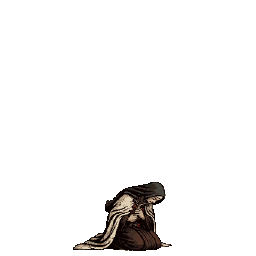
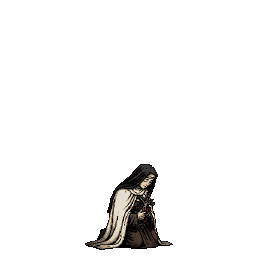
Arte T65: Bento com o corvo no ombro e Teresinha no estilo novo, com animações; Deslocar cinza (D-387)
Claude-Session: https://claude.ai/code/session_01DUWuezvzjAUhnjSiedgYuQ

Changed region(s): [[0.2812, 0.625, 0.6875, 1.0]]

diff --git a/docs/memory/progress.md b/docs/memory/progress.md
@@ -4,7 +4,7 @@ Onde estamos agora. Parte da memória do projeto (`docs/memory/README.md`). Atua
 
 ## Onde estamos
 
-- **Arte em pixel (14/11/2026, D-367 a D-370):** toda a arte passa a ser pixel art gerada no PixelLab, numa tela interna de 960 × 540. Piloto aprovado em `docs/fable/piloto-pixel/` (Bento parado e ações, Diabo de Lodo, Sombra, fundo do Círculo 2, interface de catedral gótica, tela v2). Plano em `docs/fable/06-rumo-pixel.md`, receitas e custos em `docs/fable/guia-pixellab.md`; a chave está no ambiente (saldo 1.896). T59 com merge (PR #64, D-371); rumo em pixel com merge (PR #65, D-373); **T63 feita** (ADR-0013, D-372), em PR. **T64 feita** (D-374, D-375): ferramenta `tools/art/import_pixel.py`; os 3 santos, Diabo de Lodo, Sombra, Minos, Vertigem e Asmodeu em `scenes/battle/combatants/pixel/`, ainda sem uso no jogo. T64 com merge (PR #67). Arte do Círculo 2 pronta para a T65: cenários convertidos e aprovados (D-379, D-380), peças soltas aprovadas (D-378), fontes Jacquard 12 e Jersey 10 (D-377), filtro B do círculo (D-379). **T65 feita (15/11/2026, D-381)**: combate e caminhada na grade de 960 × 540, figuras em pixel no tamanho natural, cenário em camadas com parallax e o filtro do círculo, painel de catedral, Jacquard 12 e Jersey 10; telas antigas pela metade; 573 testes. Prévia enviada a Alan; PR depois do "aprovado". **Depois: T60** (luta em poses, em pixel). Antes de seguir: Plano técnico sugerido: projeto em 960 × 540 (`stretch/mode=viewport`, `scale_mode=integer`, filtro "mais próximo", ADR-0013); as telas ainda não refeitas (título, Pouso, evento, arena, trecho) escalam o palco de 1920 × 1080 por 0,5 num ajudante comum até cada uma ser refeita; combate e caminhada refeitos na grade de 960 × 540 com os quadros de `scenes/battle/combatants/pixel/` em tamanho natural (pés em y = 338), as camadas de `art_source/environments/circles/circle_02/pixel/` em parallax e um shader do filtro do círculo (rampa e força 0,55 em D-379) só no cenário; painel nos 180 de baixo com `ui_a.png` e `ui_b.png`; fontes em tamanho natural. Conferir a tela de verdade com a captura do `lessons.md` (T36). Depois: T60 em pixel. Nenhuma arte é gerada sem custo informado e permissão de Alan (D-369).
+- **Arte em pixel (14/11/2026, D-367 a D-370):** toda a arte passa a ser pixel art gerada no PixelLab, numa tela interna de 960 × 540. Piloto aprovado em `docs/fable/piloto-pixel/` (Bento parado e ações, Diabo de Lodo, Sombra, fundo do Círculo 2, interface de catedral gótica, tela v2). Plano em `docs/fable/06-rumo-pixel.md`, receitas e custos em `docs/fable/guia-pixellab.md`; a chave está no ambiente (saldo 1.896). T59 com merge (PR #64, D-371); rumo em pixel com merge (PR #65, D-373); **T63 feita** (ADR-0013, D-372), em PR. **T64 feita** (D-374, D-375): ferramenta `tools/art/import_pixel.py`; os 3 santos, Diabo de Lodo, Sombra, Minos, Vertigem e Asmodeu em `scenes/battle/combatants/pixel/`, ainda sem uso no jogo. T64 com merge (PR #67). Arte do Círculo 2 pronta para a T65: cenários convertidos e aprovados (D-379, D-380), peças soltas aprovadas (D-378), fontes Jacquard 12 e Jersey 10 (D-377), filtro B do círculo (D-379). **T65 feita (15/11/2026, D-381)**: combate e caminhada na grade de 960 × 540, figuras em pixel no tamanho natural, cenário em camadas com parallax e o filtro do círculo, painel de catedral, Jacquard 12 e Jersey 10; telas antigas pela metade; 573 testes. Revisões de Alan aplicadas (D-382 a D-387): filtro e luz de contorno corrigidos, figuras a 0,6, todos os inimigos da Família A em pixel com clipes, Bento (corvo no ombro) e Teresinha no estilo novo, corredor com entradas, tenda, relicário e almas, lamparina, óculo e ícones em pixel; PR da T65 aberto. **Depois: T60** (luta em poses, em pixel). Antes de seguir: Plano técnico sugerido: projeto em 960 × 540 (`stretch/mode=viewport`, `scale_mode=integer`, filtro "mais próximo", ADR-0013); as telas ainda não refeitas (título, Pouso, evento, arena, trecho) escalam o palco de 1920 × 1080 por 0,5 num ajudante comum até cada uma ser refeita; combate e caminhada refeitos na grade de 960 × 540 com os quadros de `scenes/battle/combatants/pixel/` em tamanho natural (pés em y = 338), as camadas de `art_source/environments/circles/circle_02/pixel/` em parallax e um shader do filtro do círculo (rampa e força 0,55 em D-379) só no cenário; painel nos 180 de baixo com `ui_a.png` e `ui_b.png`; fontes em tamanho natural. Conferir a tela de verdade com a captura do `lessons.md` (T36). Depois: T60 em pixel. Nenhuma arte é gerada sem custo informado e permissão de Alan (D-369).
 
 - **Marco atual (05/11/2026):** M2 · Fatia vertical no Android. Proposta do backlog em `docs/backlog/m2.md` (T33 a T57, quatro blocos), com as perguntas de design respondidas por Alan (D-171 a D-182); backlog aprovado (PR #41, D-183). T33 aprovada (PR #42, D-188). T34 aprovada (PR #43, D-189); roteiro do Prólogo recebido (`docs/narrative/prologue.md`, D-190). Esqueleto 2D testado e reprovado por Alan (D-195); animação passa a ser quadros + poses-chave + ligação no motor (D-194). Quadros de Jorge recebidos e aprovados (GIFs do Meta AI, D-197); prompts completos dos outros personagens em `docs/art/animation-prompts.md`. PR #45 aprovado (D-200). Decisão do leito de morte e final único aplicada aos documentos (D-198, D-199; sem flashbacks no M2). PR #46 (leito de morte) aprovado e com merge. Arte da prioridade 1 recebida e guardada em `art_source/` (cenário do trecho 1, entradas, tenda v02 sem riscos, relicário, almas, partículas, névoa); prévias em `docs/art/reference/previa_*.jpg`, validadas com ajustes (D-216): personagens maiores e com os pés no chão, meio limpo para eventos e meio com parede para porta e caverna (prompts em `m2-art-request.md` §7), almas só no Encontro. **Próximo: T35 (piloto de troca de pose com Jorge), só quando Alan liberar** (ele pediu para esperar). Animações dos 3 santos (D-225) e de Minos, Vertigem e Asmodeu (D-226) prontas no Wan 3; saldo do ImagineArt: 35 créditos (10/11/2026, depois do vídeo do sopro de Asmodeu). Minos: ações por poses desenhadas de Alan (D-228). Arte de animação completa (D-230). Mídia no Google Drive "Art Source" (`owner.md`, D-230). **T35 feita (sessão 6, 10/11/2026):** quadros dos 3 santos, Minos (parado do vídeo + poses desenhadas, D-231), Vertigem e Asmodeu no jogo, com a tela "Animações (teste)" na arena (D-329 a D-331); PR #48 aprovado (D-232); revisão de Alan no celular (D-233) aplicada (D-332): fundos limpos, físico × magia × bênção, Jorge de lado, Asmodeu de longe e maior, personagens mais claros e 20% maiores; PR #49 aprovado (D-234); segunda revisão de Alan (D-235) aplicada (D-333): bordas cinza e véus limpos, Asmodeu mais rápido e fumaça sem corte; terceira revisão (D-236) em andamento (D-334): rosto de Vertigem recuperado, Asmodeu com investida e fumaça, Vertigem com contorno roxo; modelos escolhidos (D-237) e implementados (D-335): câmera de impacto, cruzes do exorcismo, anel de Bento, pétalas de Teresinha, contorno roxo; escudo de Jorge aprovado (D-238) e implementado (D-336); PR #50 aprovado e com merge (D-239); teste no APK (D-240) corrigido (D-337): Minos sem furos, fumaça de Asmodeu com vídeo novo do Wan 3 (D-242, D-339; saldo do ImagineArt: 35 créditos) e ele à frente, Vertigem ataca de longe; PR #51 aprovado e com merge (D-244); limpeza do repositório e inventário do Drive (D-245, `docs/art/drive-inventory.md`); Drive reorganizado como espelho do repositório (D-246, PR #52); Vertigem refeita em stop motion com os desenhos novos (D-247, D-340), prévia aprovada com ajustes (D-248, D-341): queda inteira, golpe recebido, fundo limpo; PR #52 aprovado e com merge (D-249); lições da T35 em `lessons.md`; Vertigem parada mais calma e Asmodeu sem piscar (D-250, D-342), prévia aprovada (D-251), PR #53 aprovado e com merge (D-252); Asmodeu borrado reprovado (D-253): Meta AI não serviu (D-254); parado com quadros seguros do próprio vídeo (D-344), aprovado com merge (D-255); T35 encerrada; **T36 em andamento** (D-256 a D-258, D-345 a D-347): interface definida com Alan (D-258: preto e cinza, ferro forjado, Pirata One, ficha do inimigo à direita, mapa só na caminhada); arte da interface guardada (D-346); combate novo implementado (D-347): cenário do Círculo 2, todos animados nos pés, inimigos do Drive, barras nos pés, intenções na cabeça, auréola pelo motor, painel de ferro, Lume na lamparina; mapa da caminhada em salas e corredores; 508 testes passando; prévia enviada a Alan, PR depois da aprovação. Revisão de Alan (D-259) aplicada (D-348): altura das mulheres, auréolas na cabeça, contorno vermelho no alvo, retrato dentro da moldura, botões de ferro, estandarte v02, Enxame. Prévia v2 aprovada (D-260); PR #55 aprovado e com merge (D-261). **Pausa nas tarefas (10/11/2026):** Alan mandou ideias tiradas de Darkest Dungeon; análise crítica em `docs/design/analise-referencias-dd.md` com 12 decisões; 10 respondidas (D-262), faltam Tentação e ordem da abertura. Dossiê de contexto e prompts para uma sessão de consultoria com o Fable em `docs/handoff/` (11/11/2026), já na `main` (PR #56, D-263); pranchas de arte e prompts criativos também (PR #57, D-264). Consultoria do Fable concluída e trazida para a `main` (D-349, PR #58) e aceita como decisão oficial (D-265): visão "jogo de comunhão" (quem carrega quem), Bíblia de Arte, núcleo de animação (peso do golpe, luta em poses), interface "capela às escuras", ideias G-1 a G-7 aprovadas por Alan e três cortes (ex.: sem Jardim). **Sessão 8 (12/11/2026):** PR #60 (D-266) com merge; **T58 feita** (Passo 1 do rumo, só documentos): respostas de Alan transcritas em D-267 a D-300 e D-350 a D-362 (numeração única a partir de D-363), pendências atualizadas, tarefas novas T58 a T62 e ordem de trabalho do rumo em `docs/backlog/m2.md`, specs marcadas sem números novos (Provação do Círculo em `expedition.md` §10.1, Moradas em 3 marcos em `village-economy.md` §5, regras a simular em `desolation.md` §8, comandos aprovados em `combat.md` §4.1) e `art-direction.md` apontando para a Bíblia de Arte. PRs #61 (T58) e #62 (GDD v1.2) com merge. **T37** com merge (PR #63, aprovada por Alan). **T59 em PR** (peso do golpe, D-366): Alan liga e desliga os gestos no APK. **Próximo: T60** (luta em poses). Ordem completa: `docs/backlog/m2.md`, "Ordem de trabalho depois da consultoria". GDD v1.2 com as decisões da consultoria (D-364, PR próprio). **Próxima decisão: D-367** (numeração única, D-363). ImagineArt conectado (D-221); saldo 10 créditos.
 - **Marco anterior:** M1 · Protótipo de trecho (`docs/backlog/m1.md`, tarefas T18 a T32). Perguntas de design respondidas por Alan em 04/11/2026 (D-121 a D-126); backlog aprovado e com merge (PR #24, D-127). T18 aprovada (PR #25, D-130). T19 aprovada (PR #26, D-131). T20 aprovada (PR #27, D-133). T21 aprovada (PR #28, D-135). T22 aprovada (PR #29, D-138). T23 aprovada (PR #30, D-142). T24 aprovada (PR #31, D-145). T25 aprovada (PR #32, D-147). T26 aprovada (PR #33, D-148). T27 aprovada (PR #34, D-150); teste pelo botão "Caminhada (teste)" da arena (D-149). T28 aprovada (PR #35, D-154). T29 aprovada (PR #36, D-157). T30 aprovada (PR #37, D-160). T31 aprovada (PR #38, D-166). T32 aceita no Redmi (D-167): **todas as tarefas do M1 feitas**. Moscardo sorteia entre as posições 2 e 3 (D-168). Fechamento do M1 aprovado (PR #39, D-169): **M1 concluído**; depois, o backlog do M2 com Alan, numa sessão nova (incluir: tarefa de caça a exploits no fim do M2, D-170; especificação da caminhada interativa e pedido de arte, D-159; animação e tamanho dos personagens, D-158; expedição completa com vila e Despensa, D-166; mais variedade de encontros). Folhas de prompts de inimigos, elites e chefes adicionadas (D-163). O jogo agora abre no título; o trecho inteiro é jogável no celular. Alan testou no celular a caminhada, provisões, mini-mapa e Tentação (04/11/2026) e pediu caminhada interativa: fica para o M2 (D-158, D-159).

diff --git a/docs/memory/decisions.md b/docs/memory/decisions.md
@@ -309,4 +309,5 @@ Formato: **D-número · data · quem** — decisão. *Onde está aplicada.*
 - **D-384 · 15/11/2026 · Alan** — Escaravelho com clipes aprovado. Personagens grandes demais e encavalados: **figuras menores e proporcionais, com espaço entre elas e entre os dois times**. Aplicado pelo agente: a ferramenta de entrada reduz todo quadro em pixel pelo mesmo fator **0,6** (`FIGURE_SCALE`; média de área, paleta e pixel cheio ou vazio de novo, pés no mesmo ponto; auréola e altura acompanham): santos com ~139 de altura; os quadros pintados que restam são reduzidos à mesma altura (138). Leiaute: santo 1 em x = 400, inimigo 1 em x = 560, passo de 112 (vão de 160 entre os times); intenções na linha y = 150. Os retratos (arco e moldura) usam o **busto em tamanho cheio** que a ferramenta recorta antes de reduzir (`<id>_bust.png`). Alan liberou gerar **toda a lista** de uma vez e verá tudo junto no dia seguinte. *`tools/art/import_pixel.py`, `battle_screen.gd`, `combatant_badge.gd`, `walk_screen.gd`.*
 - **D-385 · 15/11/2026 · agente (lista liberada por Alan em D-384)** — Arte gerada no PixelLab, toda guardada em `art_source/**/pixel/` e já no jogo, para Alan revisar de uma vez: (1) **Moscardo, Sopro Errante, Mãe-Enxame e Enxame** parados (`create_image_pro`, pintado como referência, 10 cada) e com clipes (4 quadros, 1 cada); **Diabo de Lodo e Sombra** com clipes. Poses seguras: os quadros com arco e respingos ficam de fora (Sopro sem queda, que não dissolveu: some pelo motor; Enxame sem guarda; Diabo de Lodo mantém o parado do piloto, porque o clipe parado saiu riscado; Sombra usa o "preparar" ondulante como parado). (2) **Corredor e Pouso por conversão** (`image_to_pixelart` fiel, 1 cada, com o contorno do pintado): entradas porta, caverna, escada e passagem (v02 do Drive), tenda v03, relicário fechado e aberto, as 3 almas e o Pouso v03 em 960 × 405 (ainda não usado: a tela do Pouso é antiga). Na caminhada as entradas, a tenda, o relicário e as almas substituem os blocos e recebem o filtro do círculo; a frente da caminhada desce 215. (3) **Interface**: folha da lanterna (apagada, acesa, haste com marcas) e folha do óculo (normal e rachado), garra do Domínio (viva e morta) e botão (dois estados); no combate a lanterna acesa desce a haste desenhada e as intenções ficam no óculo (rachado quando há dano). (4) **29 ícones** (`create_image_pixen`, 1 cada; 10 refeitos) e a folha das **ações** (9 de 10: Levantar e Deslocar saíram num ícone só). Ícones em pixel têm prioridade sobre os pintados (`HudStyle.icon`). Fracos ainda: condição "guarda" e ação "Passar". Gasto do lote: 149 gerações; saldo 1.545. *`tools/art/import_pixel_static.py`, `pixel_clips.csv`, `walk_screen.gd`, `battle_screen.gd`, `combatant_badge.gd`, `hud_style.gd`.*
 - **D-386 · 15/11/2026 · Alan e agente** — Revisão de Alan da arte de D-385: aprovada com comentários. Aplicado: (1) **Diabo de Lodo** refeito sem a sombra cinza (vinha do clipe anterior): parado com `animate_image` (4 gerações, respira sem riscos), preparar, **golpe com as garras** e **golpe com a boca da barriga** como poses desenhadas por `edit_image_pixen` (1 cada) a partir do parado aprovado; os dois golpes **se alternam** (`strike_alt`, só apresentação); guarda e queda mantidas. (2) **Sombra do Desejo** não avança: o golpe dela vira luz roxa em volta do alvo, como a Vertigem (`attack_style = outline`). (3) **Queda de Minos** (pose final de um clipe de 4 quadros). (4) Ícones: guarda (escudo redondo) e Passar (ampulheta) escolhidos de 64 opções `create_image_pro` 32 × 32 (10 cada); **Deslocar** em dois modelos (cinza e traço claro); espada da intenção de ataque **virada para cima**. (5) **Santos no estilo novo de Alan** (galeria, 15/11): rosto do Bento e da Teresinha refeito por `inpaint_image_pro_flash` (9 cada) com olhos claros e expressão serena (os originais de olhos pretos ficam para a Noite Escura); **Jorge** no mesmo estilo por `create_image_pro` (10) com o Jorge do piloto como referência. **Ainda não entram no jogo**: Alan escolhe pela comparação; aprovados, refazem-se as animações dos três. Gasto: ~52 gerações. *`pixel_clips.csv`, `pixel_characters.csv`, `combatant_view.gd`, `battle_screen.gd`, `art_source/characters/saints/*/pixel/*_still_v02.png`.*
+- **D-387 · 15/11/2026 · Alan** — Santos: **Jorge** fica o atual (o estilo novo quase não mudou); **Bento** no estilo novo **com os olhos escuros** (monge exorcista mais sério) e **com o corvo no ombro** (pedido de Alan; corvo levado do chão ao ombro por `edit_image_pixen`, 1 geração); **Teresinha** no estilo novo com o rosto refeito (olhos claros, serena). Os olhos pretos **não** servem para a Noite Escura (o editor refaz o rosto inteiro). Deslocar: o ícone **cinza**. Diabo de Lodo, Sombra, queda de Minos e ícones: aprovados. Animações novas (`animate_image_pixminimax`, 1 cada): Bento parado e andar (9 quadros), preparar, golpe, guarda e queda (o corvo levanta voo) em pose final; Teresinha parada e andar (9), preparar 4, crucifixo erguido 4, guarda 2, queda 4. Auréolas remedidas: Bento (60, 29), Teresinha (56, 24). Os 5 clipes do Bento sem o corvo (feitos antes do pedido) foram descartados. Saldo do PixelLab: 1.455. *`pixel_clips.csv`, `pixel_characters.csv`, `art_source/characters/saints/*/pixel/*_v02.png`.*
 - **D-308** — Simulador: formação do M0 Jorge (1), Bento (2), Teresinha (3); expedição longa simulada com 6 combates, Lume −5 por nó, Pousos com Vigília depois dos combates 2 e 4 e vida cheia a cada combate. *T13, `tools/sim/battle_simulator.gd`.*

diff --git a/docs/memory/lessons.md b/docs/memory/lessons.md
@@ -91,3 +91,5 @@ Fluxo que funciona (`tools/art/process_frames.py` + `animation_clips.csv` + `ani
 - Depois do merge de um PR, recriar a branch de trabalho a partir da `main` (`git fetch origin main && git checkout -B <branch> origin/main`).
 - **Godot oficial na nuvem (15/11/2026):** o download de `Godot_v4.7.2-stable_linux.x86_64.zip` do GitHub funcionou nesta sessão; ligar em `~/.local/bin/godot` dispensa os 25 min de compilação e já desenha (captura com `xvfb-run`). Tentar antes de compilar.
 - **Pixel art no Godot (T65):** mostre cada figura com a altura do próprio desenho (`CharacterFrames.figure_height`), não com uma altura fixa: Teresinha (233) e o Diabo de Lodo encolhidos para 230 saíram com pixels quebrados (escala 0,99 e 0,95). Fonte de pixel: `FontFile` com `antialiasing = NONE`, `hinting = NONE` e sem posição subpixel, no tamanho natural (Jersey 10 em 10, Jacquard 12 em 12).
+- **Shader de canvas no Godot 4 (T65, D-382):** no `fragment()`, `COLOR` já vem com a textura vezes o modulate. Amostrar `texture(TEXTURE, UV)` de novo e multiplicar eleva cada cor ao quadrado: tudo fica escuro e quente. Use `COLOR` direto (e, se precisar do modulate, guarde-o num `varying` no `vertex()`). Confira medindo a média da captura com força 0 contra a imagem crua.
+- **PixelLab, ações rápidas (T65):** `animate_image_pixminimax` põe arcos brancos e respingos vermelhos nos quadros do meio; fique com a pose final. Pose de golpe nova a partir do parado sai melhor e mais barata com `edit_image_pixen` (1 geração) do que animando. Ícone pequeno que não lê bem: `create_image_pro` em 32 × 32 dá 64 opções por 10 gerações.

diff --git a/docs/memory/sessions.md b/docs/memory/sessions.md
@@ -6,7 +6,8 @@ Resumo curto de cada sessão. A mais recente no topo.
 
 - Commits de arte e memória do ramo `ccr-22a5456d-tz0r3e` trazidos para o ramo da T65 (avanço direto, sem conflito).
 - Godot: o oficial 4.7.2 baixou do GitHub nesta sessão (o download funcionou); serve para os testes e para a captura real da tela (`xvfb-run`), sem esperar a compilação.
-- Feito: T65 (D-381). Prévia da tela real enviada a Alan.
+- Feito: T65 (D-381 a D-387). Alan revisou várias rodadas; arte gerada no PixelLab com a lista liberada por ele (1.709 → 1.455 gerações). PR da T65 aberto.
+- Lição: conferir os shaders no Godot 4 (o COLOR do fragment já traz a textura); a cor ao quadrado escureceu tudo (D-382, `lessons.md`).
 - Pendências novas: Jorge e Teresinha sem clipes de ação em pixel; cinco inimigos ainda pintados; lamparina e ícones em pixel (`open-questions.md`).
 
 ## Sessão 8 · 12/11/2026
